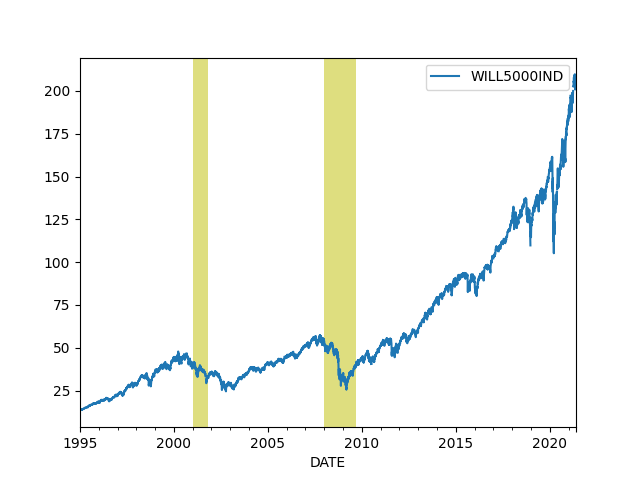
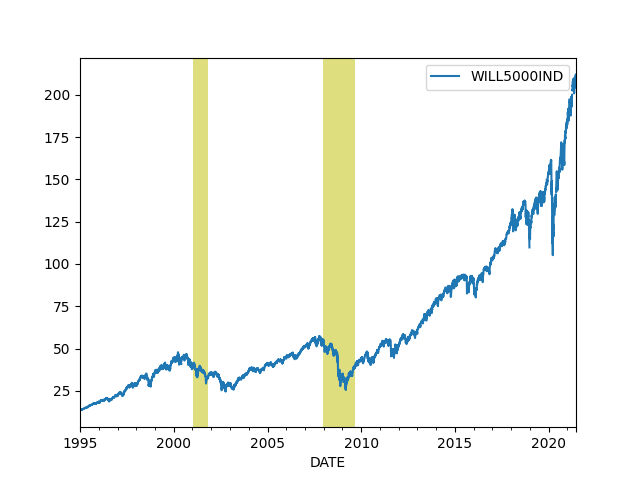
-

diff --git a/en/2019/05/stats.md b/en/2019/05/stats.md
@@ -519,10 +519,10 @@ plt.savefig('wilshire.png')
 ```text
             WILL5000IND
 DATE                   
-2021-05-24       208.04
-2021-05-25       207.46
-2021-05-26       208.26
-2021-05-27       208.68
+2021-06-14       212.06
+2021-06-15       211.51
+2021-06-16       210.50
+2021-06-17       210.33
 ```
 
 ![](wilshire.png)
